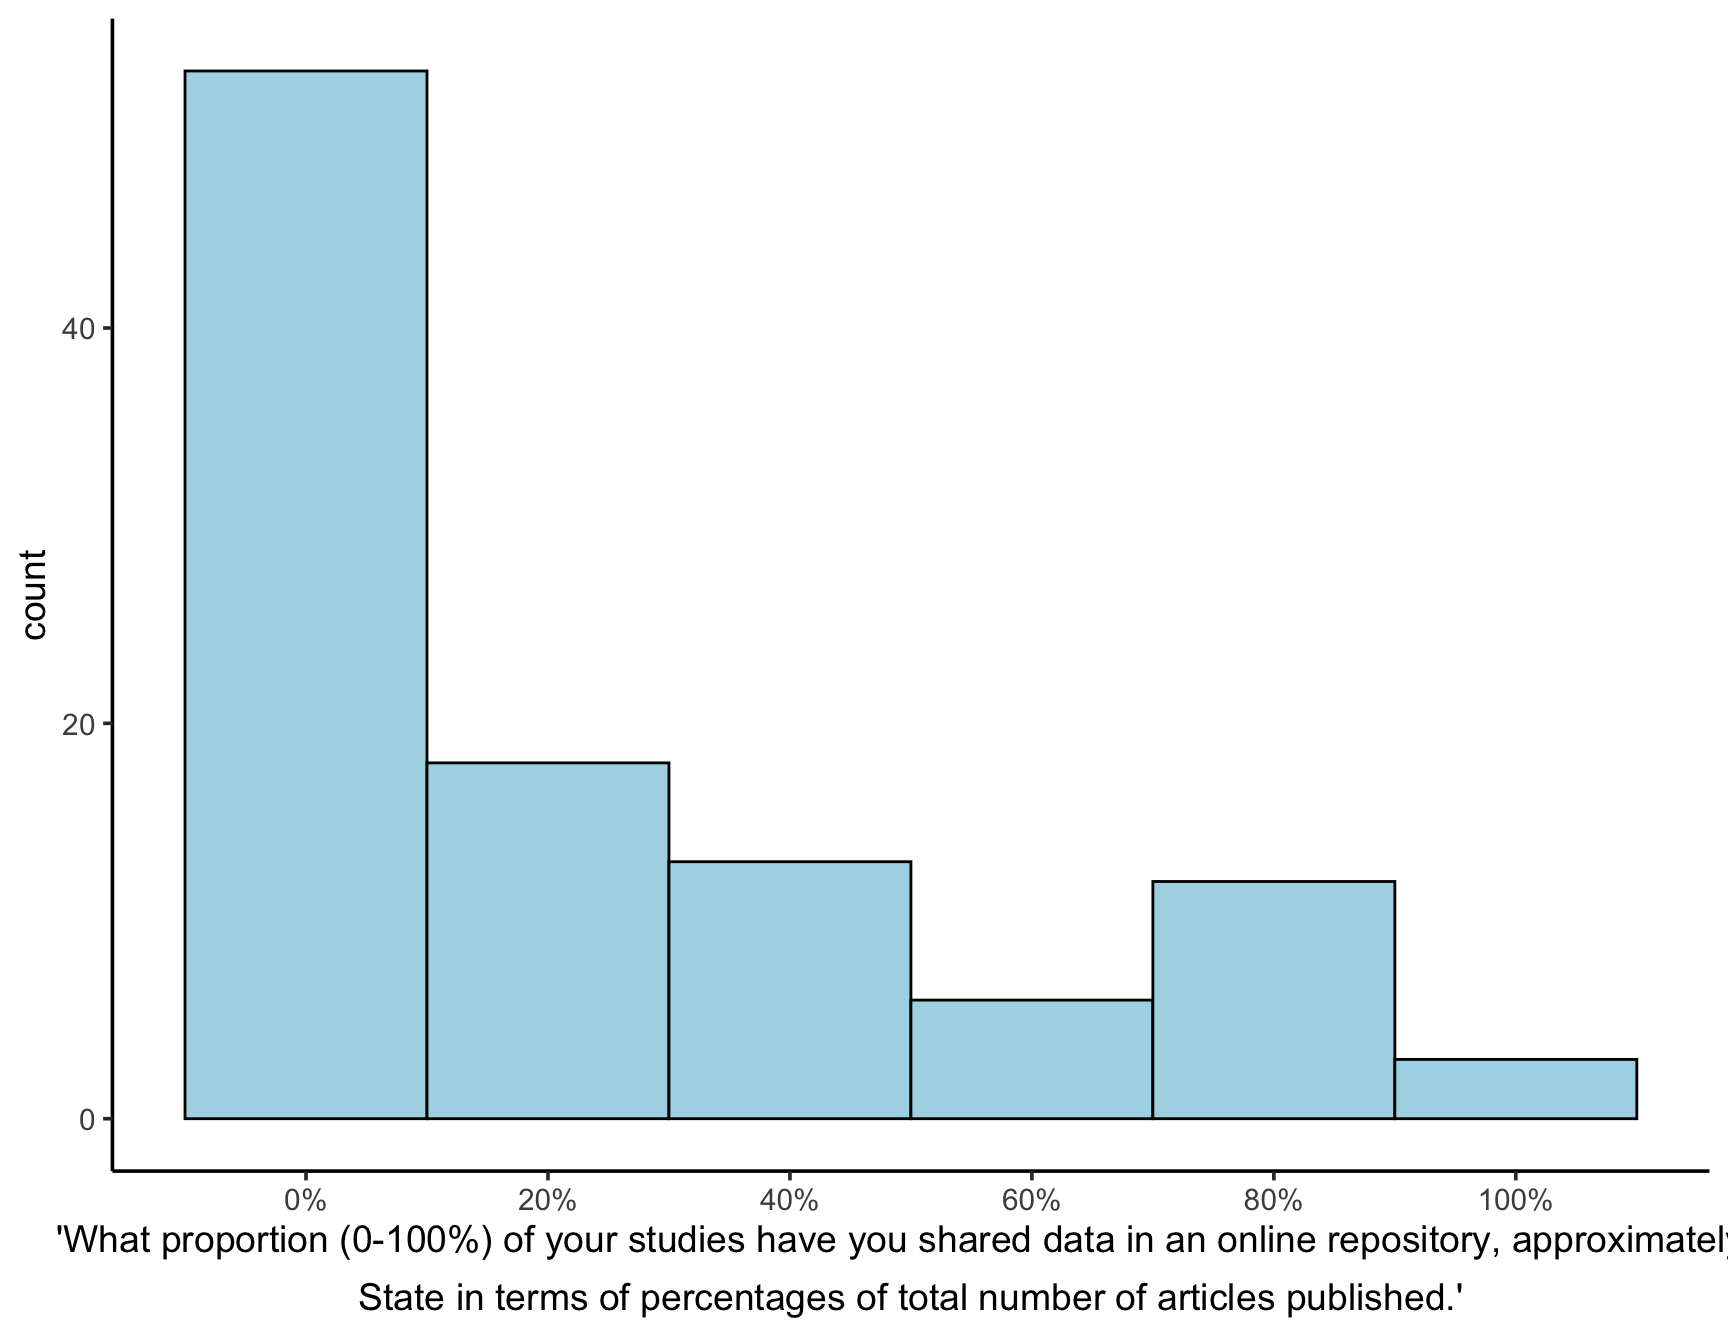
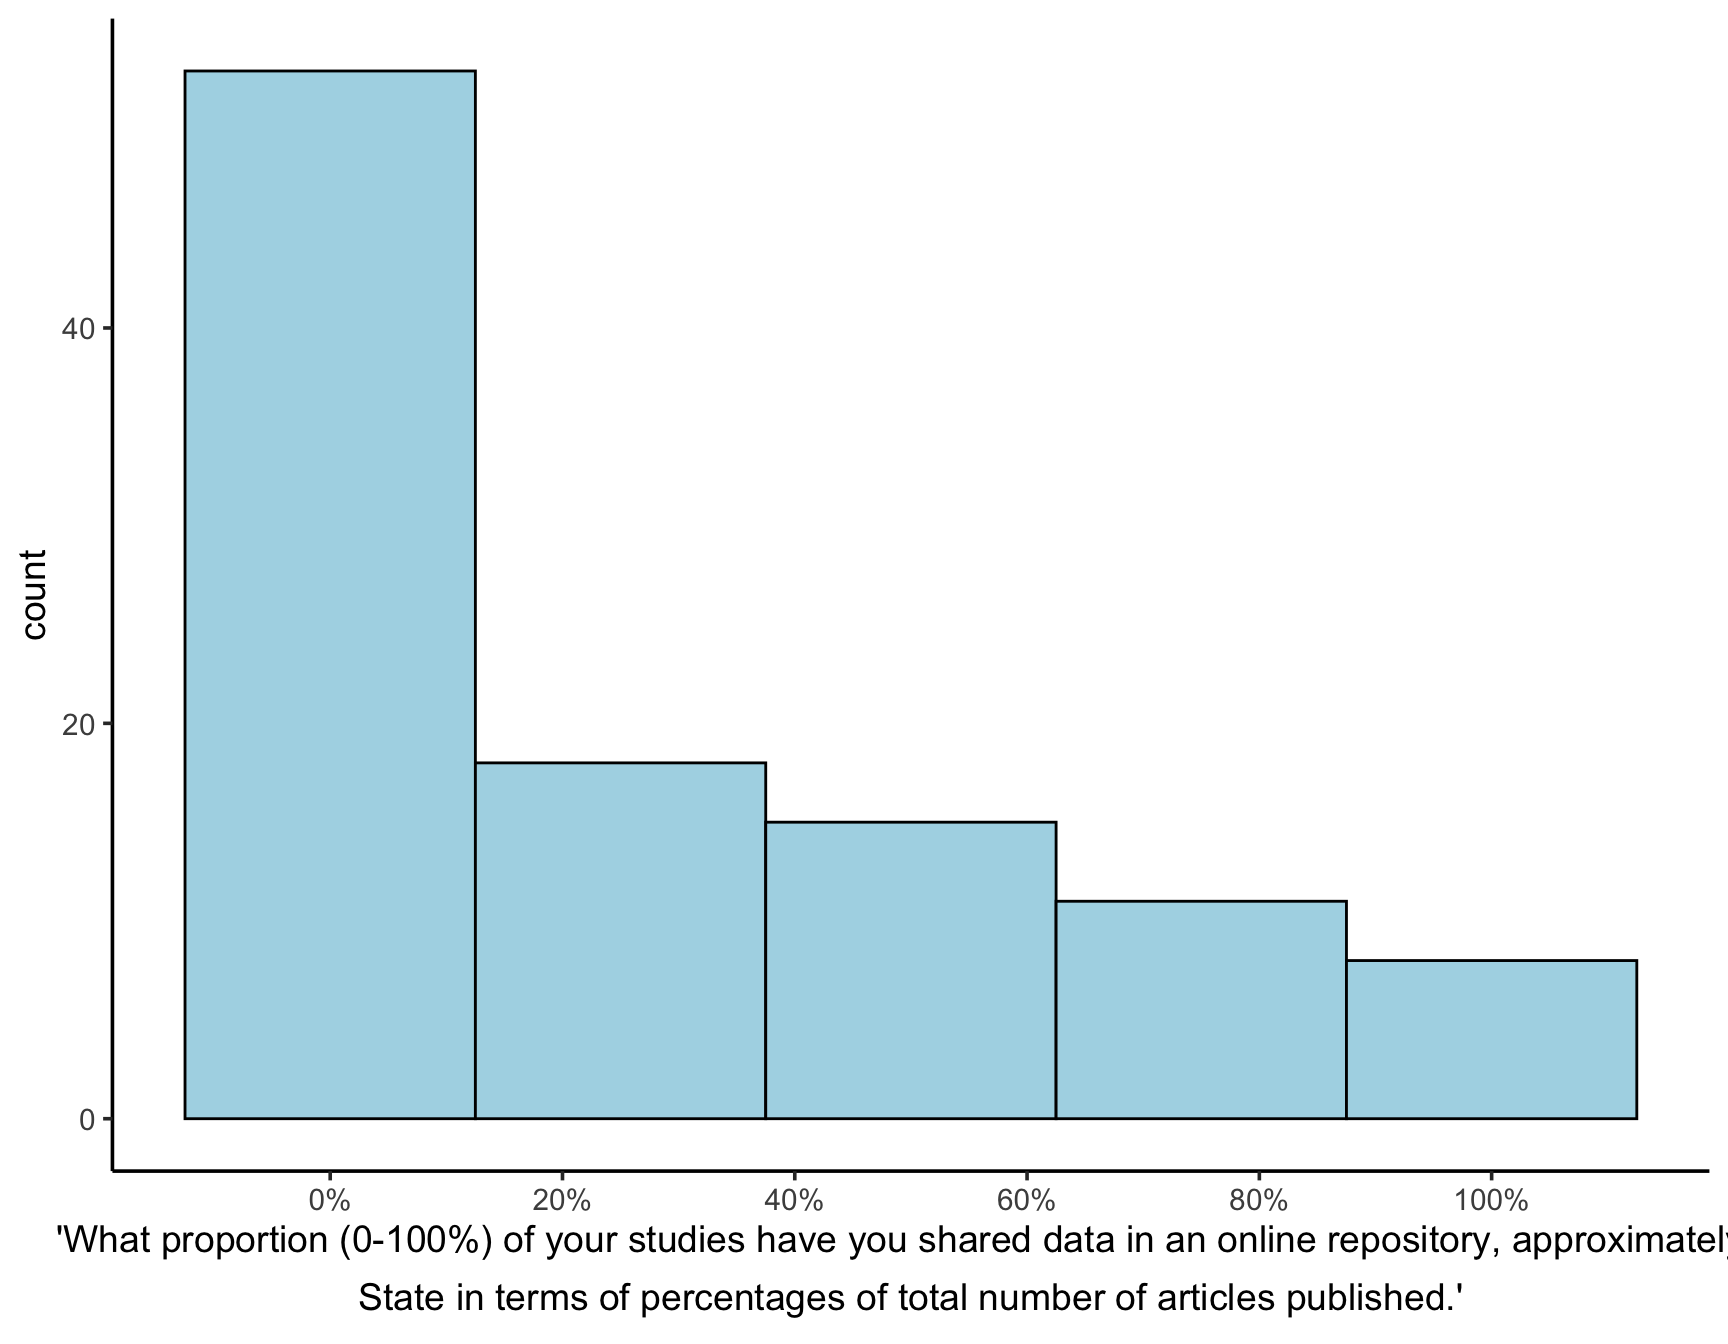
Updated data end of October, N=107

diff --git a/docs/index.html b/docs/index.html
@@ -187,20 +187,17 @@ pre > code.sourceCode > span > a:first-child::before { text-decoration: underlin
 [1] "Number of participants after filtering incomplete/previews: 107"</code></pre>
 </div>
 <div class="sourceCode cell-code" id="cb3"><pre class="sourceCode r code-with-copy"><code class="sourceCode r"><span id="cb3-1"><a href="#cb3-1" aria-hidden="true" tabindex="-1"></a><span class="fu">source</span>(<span class="st">'scr/rename_variables.R'</span>)</span></code><button title="Copy to Clipboard" class="code-copy-button"><i class="bi"></i></button></pre></div>
-<div class="cell-output cell-output-stderr">
-<pre><code>Warning in eval(ei, envir): NAs introduced by coercion
-Warning in eval(ei, envir): NAs introduced by coercion</code></pre>
-</div>
 </div>
 <section id="descriptives" class="level3">
 <h3 class="anchored" data-anchor-id="descriptives">Descriptives</h3>
-<div class="sourceCode cell-code" id="cb5"><pre class="sourceCode r code-with-copy"><code class="sourceCode r"><span id="cb5-1"><a href="#cb5-1" aria-hidden="true" tabindex="-1"></a><span class="fu">source</span>(<span class="st">'scr/describe_data.R'</span>)</span></code><button title="Copy to Clipboard" class="code-copy-button"><i class="bi"></i></button></pre></div>
+<div class="sourceCode cell-code" id="cb4"><pre class="sourceCode r code-with-copy"><code class="sourceCode r"><span id="cb4-1"><a href="#cb4-1" aria-hidden="true" tabindex="-1"></a><span class="fu">source</span>(<span class="st">'scr/describe_data.R'</span>)</span></code><button title="Copy to Clipboard" class="code-copy-button"><i class="bi"></i></button></pre></div>
 <p>N = 107</p>
 <p>Age (M) = 44.21</p>
 <p>Age (SD) = 10.42</p>
 <p>Gender: 49.53% females</p>
-<p>Years active (M) = NA SD = NA</p>
+<p>Years active (M) = 15.98 SD = 9.42</p>
 <table class="caption-top table">
+<caption>Years active by career stage</caption>
 <thead>
 <tr class="header">
 <th style="text-align: left;">careerstage</th>
@@ -226,8 +223,8 @@ Warning in eval(ei, envir): NAs introduced by coercion</code></pre>
 </tr>
 <tr class="even">
 <td style="text-align: left;">Associate Professor / Reader</td>
-<td style="text-align: right;">NA</td>
-<td style="text-align: right;">NA</td>
+<td style="text-align: right;">18.94</td>
+<td style="text-align: right;">6.39</td>
 </tr>
 <tr class="odd">
 <td style="text-align: left;">Professor</td>
@@ -241,17 +238,15 @@ Warning in eval(ei, envir): NAs introduced by coercion</code></pre>
 </tr>
 </tbody>
 </table>
-<div class="sourceCode cell-code" id="cb6"><pre class="sourceCode r code-with-copy"><code class="sourceCode r"><span id="cb6-1"><a href="#cb6-1" aria-hidden="true" tabindex="-1"></a><span class="fu">print</span>(fig_careerstage)</span></code><button title="Copy to Clipboard" class="code-copy-button"><i class="bi"></i></button></pre></div>
+<div class="sourceCode cell-code" id="cb5"><pre class="sourceCode r code-with-copy"><code class="sourceCode r"><span id="cb5-1"><a href="#cb5-1" aria-hidden="true" tabindex="-1"></a><span class="fu">print</span>(fig_careerstage)</span></code><button title="Copy to Clipboard" class="code-copy-button"><i class="bi"></i></button></pre></div>
 <p><img src="index_files/figure-html/describe-1.png" class="img-fluid" width="864"></p>
-<div class="sourceCode cell-code" id="cb7"><pre class="sourceCode r code-with-copy"><code class="sourceCode r"><span id="cb7-1"><a href="#cb7-1" aria-hidden="true" tabindex="-1"></a><span class="fu">print</span>(fig_shared)</span></code><button title="Copy to Clipboard" class="code-copy-button"><i class="bi"></i></button></pre></div>
-<pre><code>Warning: Removed 2 rows containing non-finite outside the scale range
-(`stat_bin()`).</code></pre>
+<div class="sourceCode cell-code" id="cb6"><pre class="sourceCode r code-with-copy"><code class="sourceCode r"><span id="cb6-1"><a href="#cb6-1" aria-hidden="true" tabindex="-1"></a><span class="fu">print</span>(fig_shared)</span></code><button title="Copy to Clipboard" class="code-copy-button"><i class="bi"></i></button></pre></div>
 <p><img src="index_files/figure-html/describe-2.png" class="img-fluid" width="864"></p>
 </section>
 <section id="main-barriers" class="level3">
 <h3 class="anchored" data-anchor-id="main-barriers">Main barriers</h3>
 <div class="cell">
-<div class="sourceCode cell-code" id="cb9"><pre class="sourceCode r code-with-copy"><code class="sourceCode r"><span id="cb9-1"><a href="#cb9-1" aria-hidden="true" tabindex="-1"></a><span class="fu">source</span>(<span class="st">'scr/figure_main.R'</span>)</span></code><button title="Copy to Clipboard" class="code-copy-button"><i class="bi"></i></button></pre></div>
+<div class="sourceCode cell-code" id="cb7"><pre class="sourceCode r code-with-copy"><code class="sourceCode r"><span id="cb7-1"><a href="#cb7-1" aria-hidden="true" tabindex="-1"></a><span class="fu">source</span>(<span class="st">'scr/figure_main.R'</span>)</span></code><button title="Copy to Clipboard" class="code-copy-button"><i class="bi"></i></button></pre></div>
 <div class="cell-output-display">
 <div>
 <figure class="figure">
@@ -285,7 +280,7 @@ Warning in eval(ei, envir): NAs introduced by coercion</code></pre>
 <section id="desirability-of-sharing" class="level3">
 <h3 class="anchored" data-anchor-id="desirability-of-sharing">Desirability of sharing?</h3>
 <div class="cell">
-<div class="sourceCode cell-code" id="cb10"><pre class="sourceCode r code-with-copy"><code class="sourceCode r"><span id="cb10-1"><a href="#cb10-1" aria-hidden="true" tabindex="-1"></a><span class="fu">print</span>(g2)</span></code><button title="Copy to Clipboard" class="code-copy-button"><i class="bi"></i></button></pre></div>
+<div class="sourceCode cell-code" id="cb8"><pre class="sourceCode r code-with-copy"><code class="sourceCode r"><span id="cb8-1"><a href="#cb8-1" aria-hidden="true" tabindex="-1"></a><span class="fu">print</span>(g2)</span></code><button title="Copy to Clipboard" class="code-copy-button"><i class="bi"></i></button></pre></div>
 <div class="cell-output-display">
 <div>
 <figure class="figure">
@@ -293,7 +288,7 @@ Warning in eval(ei, envir): NAs introduced by coercion</code></pre>
 </figure>
 </div>
 </div>
-<div class="sourceCode cell-code" id="cb11"><pre class="sourceCode r code-with-copy"><code class="sourceCode r"><span id="cb11-1"><a href="#cb11-1" aria-hidden="true" tabindex="-1"></a><span class="fu">print</span>(g3)</span></code><button title="Copy to Clipboard" class="code-copy-button"><i class="bi"></i></button></pre></div>
+<div class="sourceCode cell-code" id="cb9"><pre class="sourceCode r code-with-copy"><code class="sourceCode r"><span id="cb9-1"><a href="#cb9-1" aria-hidden="true" tabindex="-1"></a><span class="fu">print</span>(g3)</span></code><button title="Copy to Clipboard" class="code-copy-button"><i class="bi"></i></button></pre></div>
 <div class="cell-output-display">
 <div>
 <figure class="figure">
@@ -306,7 +301,7 @@ Warning in eval(ei, envir): NAs introduced by coercion</code></pre>
 <section id="share-in-future-and-benefits-of-sharing" class="level3">
 <h3 class="anchored" data-anchor-id="share-in-future-and-benefits-of-sharing">Share in future and benefits of sharing?</h3>
 <div class="cell">
-<div class="sourceCode cell-code" id="cb12"><pre class="sourceCode r code-with-copy"><code class="sourceCode r"><span id="cb12-1"><a href="#cb12-1" aria-hidden="true" tabindex="-1"></a><span class="fu">source</span>(<span class="st">'scr/figure_supporting.R'</span>)</span></code><button title="Copy to Clipboard" class="code-copy-button"><i class="bi"></i></button></pre></div>
+<div class="sourceCode cell-code" id="cb10"><pre class="sourceCode r code-with-copy"><code class="sourceCode r"><span id="cb10-1"><a href="#cb10-1" aria-hidden="true" tabindex="-1"></a><span class="fu">source</span>(<span class="st">'scr/figure_supporting.R'</span>)</span></code><button title="Copy to Clipboard" class="code-copy-button"><i class="bi"></i></button></pre></div>
 <div class="cell-output-display">
 <div>
 <figure class="figure">
